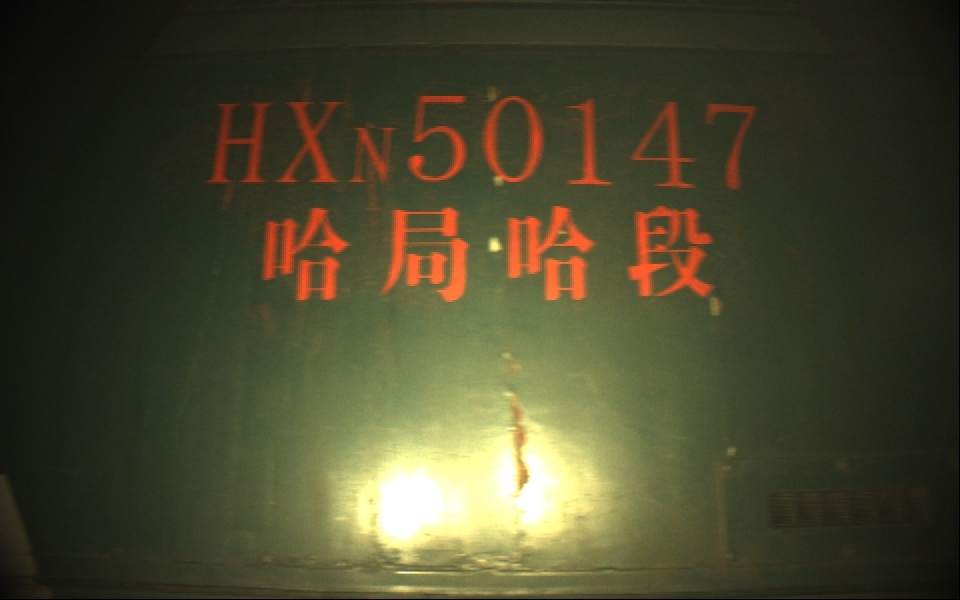
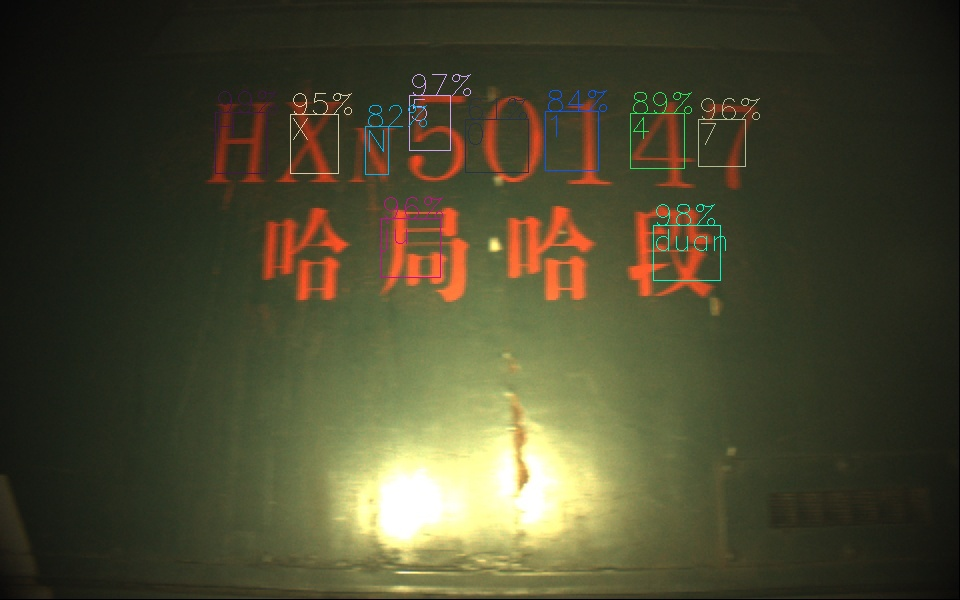
update image

diff --git a/README.md b/README.md
@@ -110,7 +110,7 @@ python val.py
 <br/>
 这是我用54张图片训练了 2000 步(十分钟)的结果，效果还不错<br/>
 this image is the result of training 2000 steps (10 minutes) with 54 pictures, it looks not bad. <br/>
-![image](https://github.com/rrddcc/YOLOv4_tensorflow/blob/master/save/60.jpg)
+![image](https://github.com/rrddcc/YOLOv4_tensorflow/blob/master/save/62.jpg)
 
 ### 有关 config.py 和训练的提示
 ### some tips with config.py and train the model
